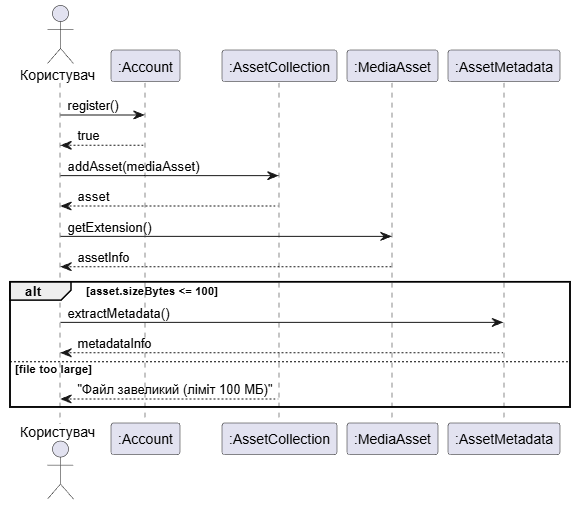
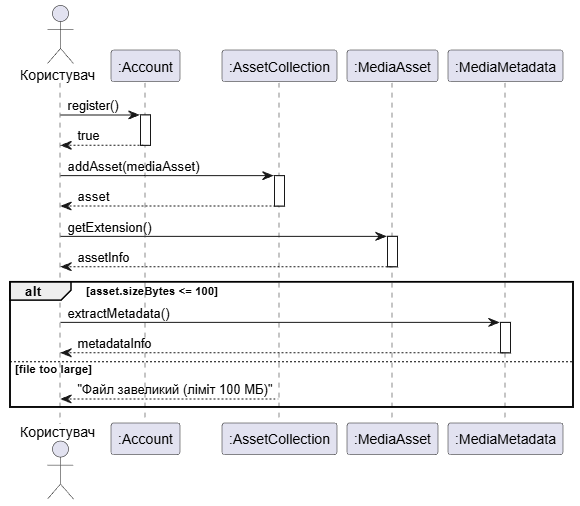
docs:додано матрицю трасованості

diff --git a/reports/LR2/traceability.md b/reports/LR2/traceability.md
@@ -1,0 +1,9 @@
+| Вимога | Use Case | Класи                                | Sequence               |
+| :----: | :------: | :----------------------------------- | :--------------------- |
+| FR-01  |  UC-01   | Account, AssetCollection, MediaAsset | SD-01 (Імпорт ресурсу) |
+| FR-02  |    —     | —                                    | —                      |
+| FR-03  |    —     | —                                    | —                      |
+| FR-04  |    —     | —                                    | —                      |
+| FR-05  |    —     | —                                    | —                      |
+| FR-06  |  UC-06   | MediaAsset                           | SD-01 (фрагмент)       |
+| FR-07  |    —     | —                                    | —                      |